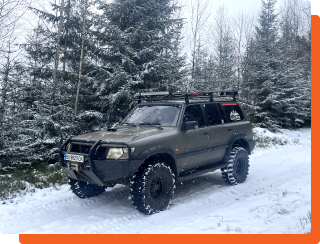
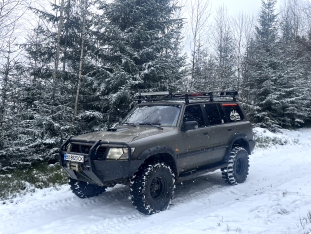
Added layouts for all images

diff --git a/index.html b/index.html
@@ -48,8 +48,7 @@
         </h3>
         <div class="first-screen__photo">
           <h1>Верхо<span>Вид</span></h1>
-          <div class="layout"></div>
-          <img src="assets/images/first-screen.png" alt="Джип-тури">
+          <div class="image__layout"><img src="assets/images/first-screen.png" alt="Джип-тури"></div>
         </div>
         <a href="tel:+380982545545" class="call">Зателефонувати</a>         
       </div>
@@ -84,7 +83,9 @@
           <div class="jeeps__item">
 
             <div class="jeeps__item__img">
-              <img src="assets/images/nissan-patrol.png" alt="Nissan patrol">
+              <div class="image__layout image__layout-jeeps">
+                <img src="assets/images/nissan-patrol.png" alt="Nissan patrol">
+              </div>
             </div>
             <div class="jeeps__item__title">Nissan Patrol</div>
             <div class="jeeps__item__descr">(має закритий люк)</div>

diff --git a/assets/scss/blocks/_first-screen.scss b/assets/scss/blocks/_first-screen.scss
@@ -18,21 +18,28 @@
                 color: $main--color;
             }
         }
-        > img {
-            position: relative;
-            width: 100%;
-            border-radius: 5px;
-        }
-        .layout {
-            position: absolute;
-            background: #F26022;
-            border-radius: 5px;
-            top: 4px;
-            left: 5px;
-            width: 100%;
-            height: 100%;
-            z-index: 0;
-        }
+    }
+}
+
+.image__layout {
+    position: relative;
+    background-color: $main--color;
+    border-radius: 5px;
+    min-width: 315px;
+    min-height: 205px;
+    margin-left: 5px;
+    margin-top: 4px;
+    z-index: 0;
+    > img {
+        position: absolute;
+        border-radius: 5px;
+        bottom: 4px;
+        right: 5px;
+        z-index: 1;
+    }
+    &-jeeps {
+        min-width: 311px;
+        min-height: 234px;
     }
 }
 
